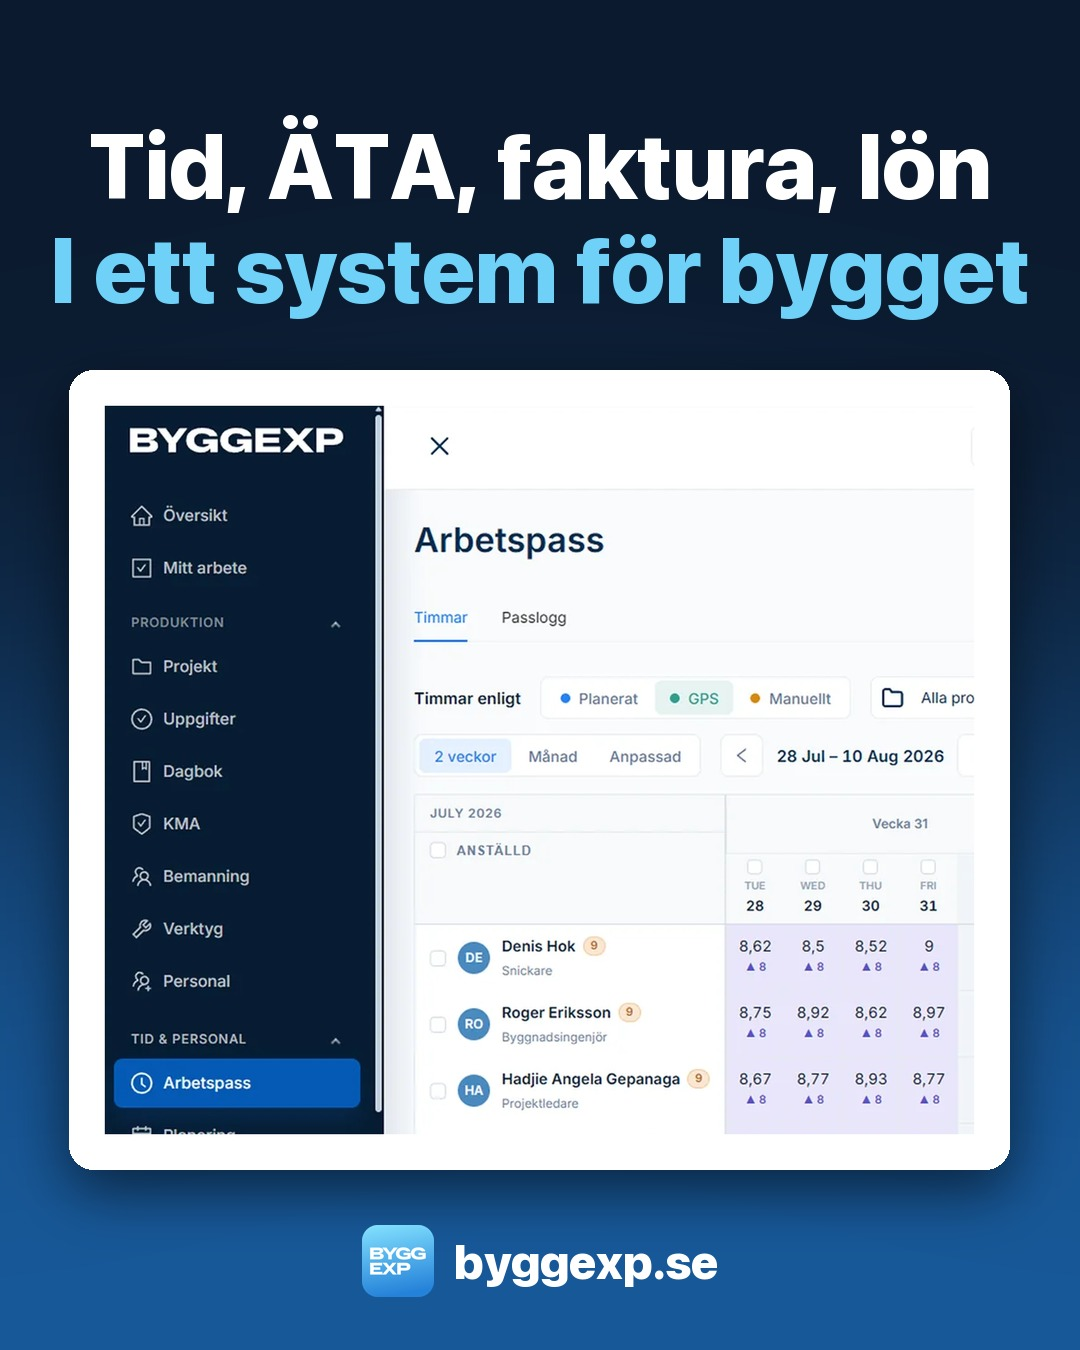
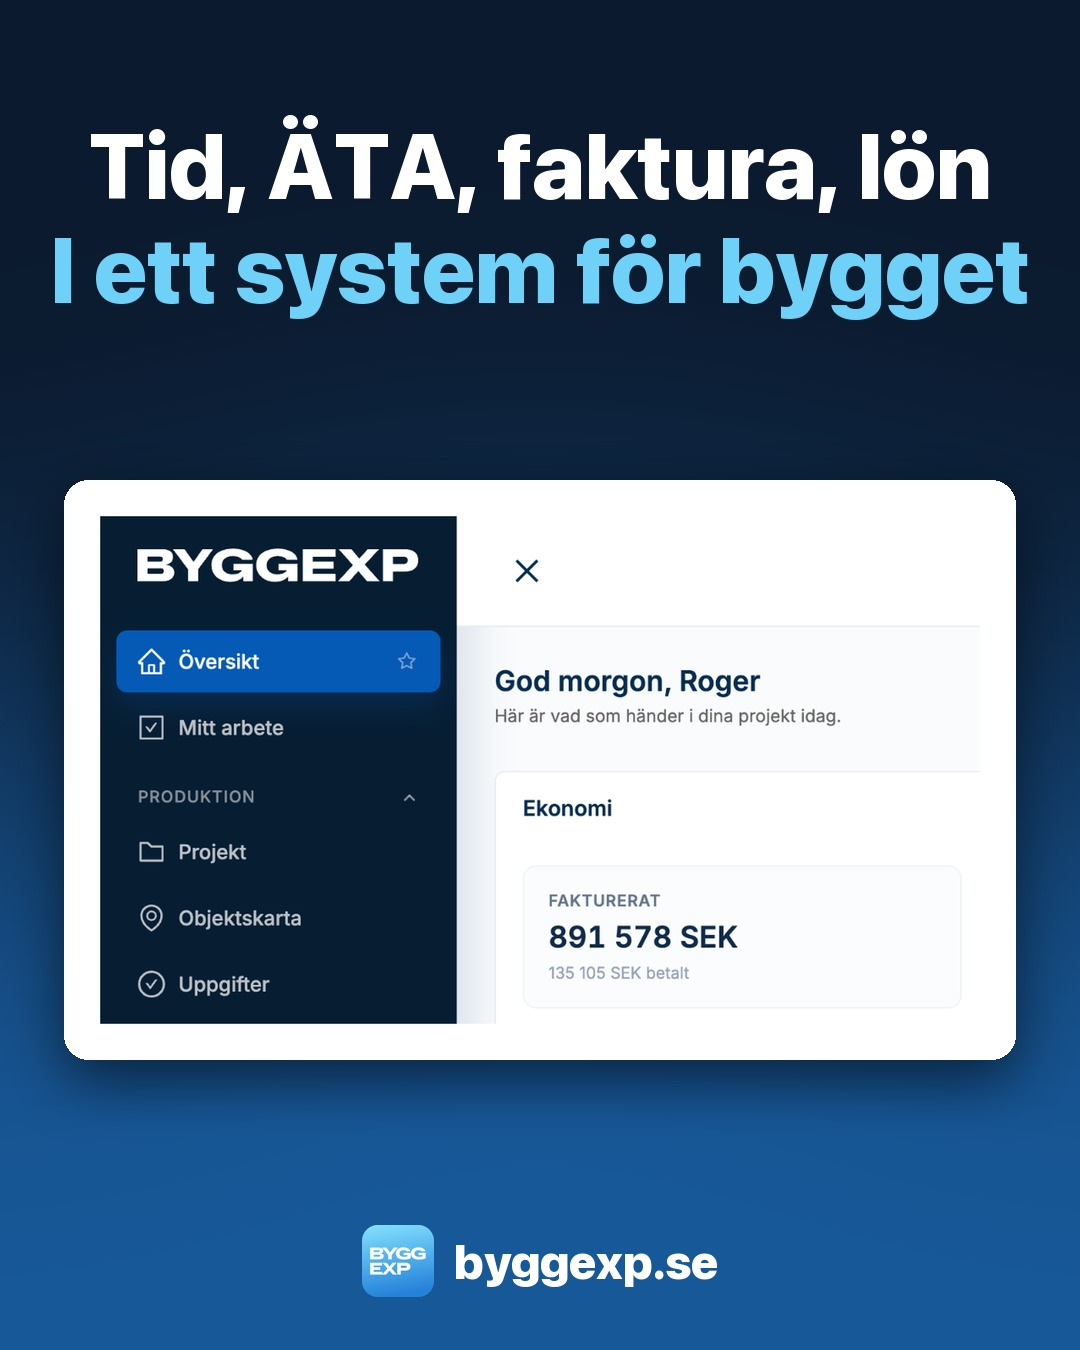
SMM: LinkedIn product cover/tagline, admin reshoots
Claude-Session: https://claude.ai/code/session_01XD1XQzsUammoaxUgkDVk4g

Changed region(s): [[0.0306, 0.2489, 0.9472, 0.9022], [0.7944, 0.56, 0.8556, 0.6222], [0.825, 0.4978, 0.8861, 0.5289]]

diff --git a/design-assets/social/posts/make_posts.py b/design-assets/social/posts/make_posts.py
@@ -24,10 +24,10 @@ POSTS = [
     ("07-ata-trigger.jpg", ["Kommentera ÄTA", "– få mallen gratis"], [("ata-pdf.png", (120, 105, 1545, 1450))]),
     ("06-faktura.jpg", ["Från ÄTA", "till faktura"], [("m-ata.png", (60, 940, 1038, 1180)), ("m-ata.png", (60, 3133, 1038, 3372)), "ARROW", ("m-fk2.png", (60, 652, 1038, 892)), ("m-fk2.png", (60, 2532, 1038, 3054))]),
     # S14 LinkedIn product posts: real app screens from public/landing/features (flattened to src/f-*.png)
-    ("20-system.jpg", ["Tid, ÄTA, faktura, lön", "I ett system för bygget"], [("f-shifts.png", (248, 42, 1200, 840))]),
+    ("20-system.jpg", ["Tid, ÄTA, faktura, lön", "I ett system för bygget"], [("a-overview.png", (0, 0, 1040, 600))]),  # admin.byggexp.se, Chrome zoom capture
     ("21-gps.jpg", ["Vem var på bygget?", "Appen vet – med GPS"], [("f-shifts.png", (1926, 360, 2374, 1170))]),
-    ("22-attest.jpg", ["Veckans timmar", "Per person och dag"], [("f-shifts.png", (586, 336, 1308, 390)), ("f-shifts.png", (586, 468, 1308, 826)), ("f-shifts.png", (586, 900, 1308, 1044))]),
-    ("23-lon.jpg", ["Lönen den 25:e?", "Timmarna finns redan"], [("f-salary.png", (823, 258, 1578, 312)), ("f-salary.png", (646, 426, 1476, 672))]),
+    ("22-attest.jpg", ["Varje pass loggat", "Ut som Excel eller PDF"], [("a-pass.png", (480, 0, 1568, 290)), "ARROW", ("a-export.png", (0, 70, 496, 350))]),
+    ("23-lon.jpg", ["Lönen den 25:e?", "Timmarna finns redan"], [("a-lon1.png", (0, 60, 1040, 545)), ("a-lon2.png", None)]),
     ("24-planering.jpg", ["Vem jobbar var?", "Allt på en skärm"], [("f-plan.png", (583, 468, 1488, 1062))]),
     ("25-foto.jpg", ["Hur såg det ut?", "Foton per arbetspass"], [("f-foto.png", (1919, 360, 2374, 900))]),
     ("26-pris.jpg", ["Vad kostar det?", "Från 299 kr i månaden"], [("pris.png", (0, 30, 770, 360)), "GAP", ("pris.png", (815, 30, 1585, 360)), "GAP", ("pris.png", (1630, 30, 2400, 360))]),

diff --git a/design-assets/social/covers/make_covers.py b/design-assets/social/covers/make_covers.py
@@ -110,10 +110,16 @@ cover("linkedin-cover-value", 2256, 382, (700, 30, 1300, 322), VALUE, 64, 48, "K
 # YouTube safe area 1546x423 (507, 509), inset 40px so nothing touches the mobile crop
 cover("youtube-banner-value", 2560, 1440, (547, 529, 1466, 383), VALUE, 84, 64, VSUB, 700, OB, "byggexp.se")
 
+# S14 LinkedIn = product showcase
+PRODUCT = [("Från incheckning", WHITE), ("till lön och faktura", SKY)]
+cover("linkedin-cover-product", 2256, 382, (700, 30, 1300, 322), PRODUCT, 60, 48, "Ett system för hela byggföretaget", 900, None, "byggexp.se")
+
 # Facebook: 1640x624, keep inside centre ~1180px (mobile crops the sides)
 cover("facebook-cover", 1640, 624, (230, 40, 1180, 544), TITLE, 50, 48, SUB, 560)
 # LinkedIn company: 1128x191, logo overlaps bottom-left -> start content at x=300
 cover("linkedin-cover", 1128, 191, (300, 20, 800, 151), SHORT, 26, 24)
 # YouTube: 2560x1440, safe area 1546x423 in the centre
 cover("youtube-banner", 2560, 1440, (507, 509, 1546, 423), TITLE, 62, 64, SUB, 720)
+for n in ("linkedin-cover-value", "linkedin-cover-product"):  # LinkedIn rejects the 2x PNG; upload this JPG
+    Image.open(HERE / f"{n}.png").convert("RGB").resize((1584, 268), Image.LANCZOS).save(HERE / f"{n}.jpg", quality=92)
 print("ok")

diff --git a/docs/marketing/linkedin-plan.md b/docs/marketing/linkedin-plan.md
@@ -72,7 +72,7 @@ Appen finns för iPhone och Android.
 ```text
 Måndag morgon. Förra veckans timmar ska attesteras.
 
-I ByggExp ser du varje pass per person och projekt: planerat, GPS och manuellt sida vid sida. Du godkänner på webben och tar ut tidrapporten som PDF eller Excel, löne-CSV eller SIE4-fil till bokföringen.
+I ByggExp ser du varje pass per person och projekt, med start, slut och tid. Ta ut tidrapporten som Excel, PDF eller CSV – för hela projektet eller per anställd.
 
 Inget att knappa in igen.
 👉 https://byggexp.se/sv/blog/automatisk-tidrapportering-och-export?utm_source=linkedin&utm_medium=social&utm_campaign=page-product
@@ -95,7 +95,7 @@ Ett steg i stället för två.
 **Цель:** вторая денежная боль: зарплата из часов без ручного подсчёта.
 **Скрин:** `public/landing/features/12salary-1200.webp` (Löner: Timmar × Timlön = Brutto, кнопки Exportera CSV / AGI-underlag). **Переснять:** сейчас у 6 из 8 строк timlön 0,00 (нарушение S5/S11). Нужно 3–4 строки с timlön ≈ 230 kr; Brutto = timmar × 230, это видно на картинке (S8). Заголовок: «Lönen den 25:e?» / «Timmarna finns redan».
 ```text
-Lönen ska vara klar den 25:e. Timmarna ligger på lappar hos fem personer.
+Lönen ska vara klar den 25:e. Timmarna ligger på lappar och i sms.
 
 I ByggExp summeras timmarna per medarbetare och timtyp: normal, övertid och OB enligt passet. Bruttolönen räknas med de faktorer ni själva anger. Exportera CSV till lönesystemet och ta ut AGI-underlaget.
 👉 https://byggexp.se/sv/blog/loneunderlag-for-byggforetag?utm_source=linkedin&utm_medium=social&utm_campaign=page-product

diff --git a/docs/marketing/smm-status.md b/docs/marketing/smm-status.md
@@ -82,3 +82,4 @@
 - 20.10 LinkedIn-страница, посты о продукте (S14), опубликованы после проверки критиком: 26 цены, 25 фото, 06 ÄTA→faktura, 21 GPS (самый новый, сверху ленты).
 - Не прошли критика, нужна пересъёмка в admin.byggexp.se (Roger, демо-компания) на чистых данных: 20 обзор (мелко), 22 аттест (нет меню Export), 23 löner (timlön 320/350 и 0,00, всего 2 строки), 24 planering (мелко, интерфейс по-английски). Баги в приложении: дни TUE/WED, «Week», роли worker/projectAdmin не переведены на шведский.
 - verktyg-qa.md: инструменты, которые уже продвигали, считают правильно. Ошибки в других: ROT в betong, reglar/gips −1 стойка, в faktura-generator нет полей для ROT, персонал-кост, «12 % livsmedel».
+- 20.10 LinkedIn: новая обложка linkedin-cover-product (критик: «чисто») и слоган о продукте (S14) — стоят. Пересняты в admin.byggexp.se (аккаунт Roger, через zoom в Chrome): 20 обзор, 22 журнал смен + экспорт, 23 löner. Критик их не принял, причина в демо-данных: даты в выходные, timlön 350/320, период выпадает на byggsemester, пустая планировка и бемманнинг. Нужны чистые демо-данные: решает владелец.
